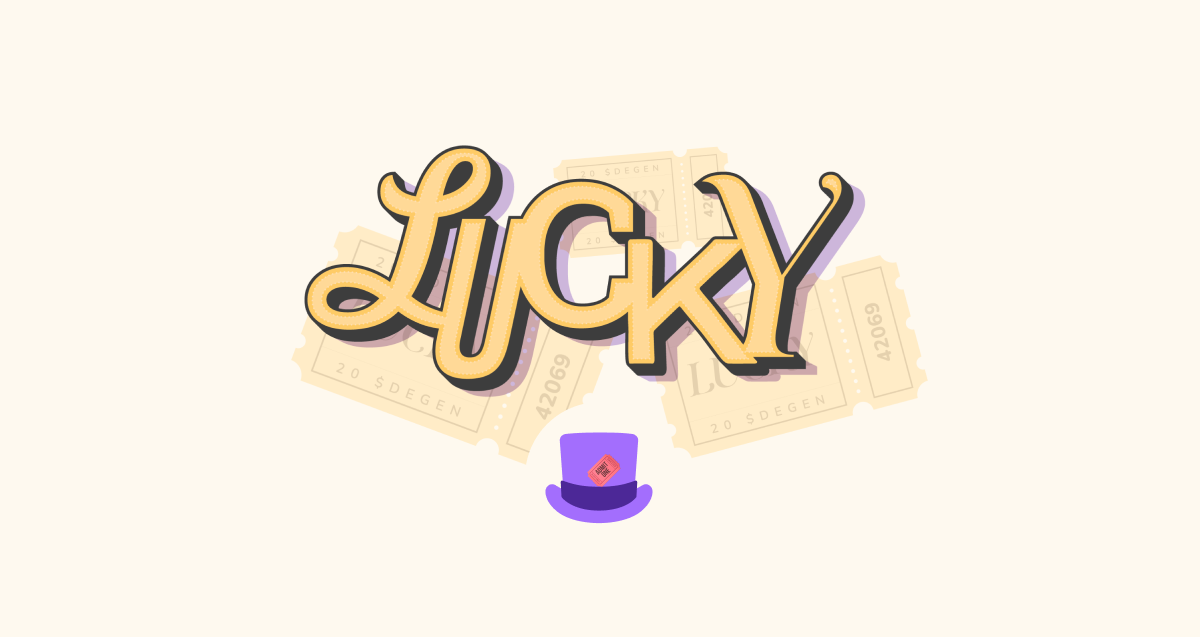
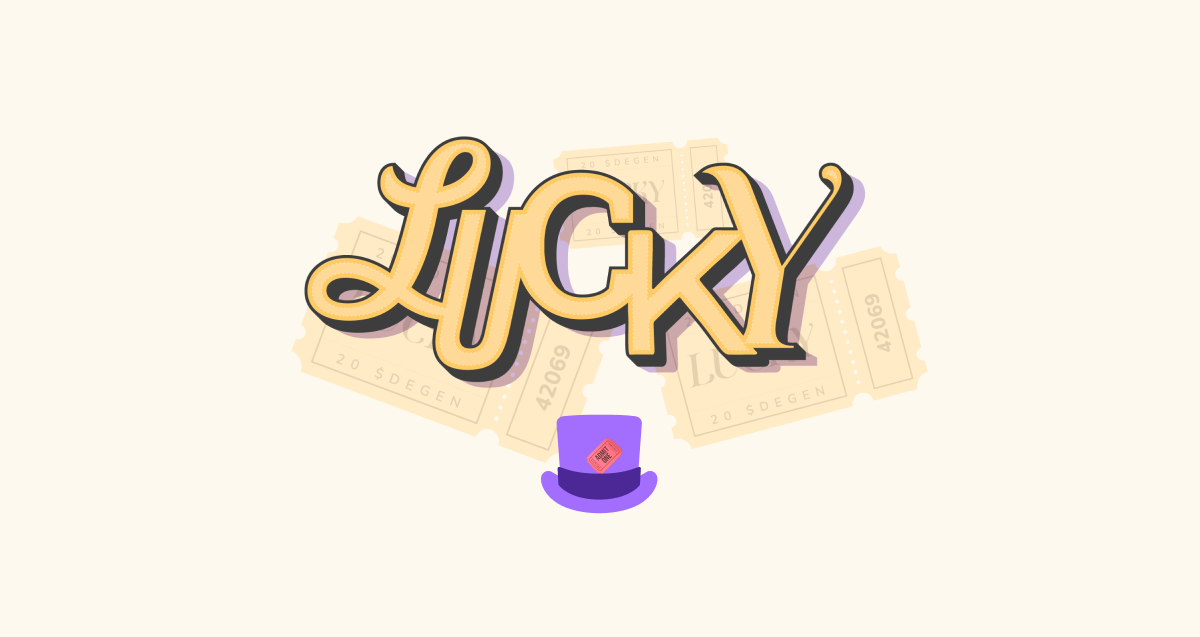
social meta tags for tn image

Changed region(s): [[0.2467, 0.2088, 0.7708, 0.8352]]

diff --git a/pages/index.tsx b/pages/index.tsx
@@ -14,11 +14,19 @@ const Home: NextPage = () => {
       <Head>
         <title>Lucky Jackpot</title>
         <meta
-          content="Win Degen tokens in the Lucky Jackpot 75/25 draw"
+          content="Win Degen tokens in the Lucky Jackpot 75/25 random draw"
           name="description"
         />
 
         <link href="https://luckyjackpot.vercel.app/_next/image?url=%2F_next%2Fstatic%2Fmedia%2Ffavicon.b34c1433.png&w=48&q=75" rel="shortcut icon" type="image/x-icon" />
+
+        <meta property=’og:title’ content='Lucky Jackpot' />
+        <meta property=’og:image’ content='https://i.ibb.co/gyhfcFy/social-tn.png' />
+        <meta property=’og:description’ content='Win Degen tokens in the Lucky Jackpot 75/25 random draw' />
+        <meta property=’og:url’ content='https://www.luckyjackpot.xyz' />
+        <meta property=’og:image:width’ content='1200' />
+        <meta property=’og:image:height’ content='627' />
+        <meta property="og:type" content='website'/>
 
       </Head>
 

diff --git a/styles/Home.module.css b/styles/Home.module.css
@@ -37,7 +37,7 @@
   margin: 2rem 0;
   color: #3D3D3D;
   line-height: 1;
-  font-size: 4.2rem;
+  font-size: 3.2rem;
   text-transform: uppercase;
 }
 
